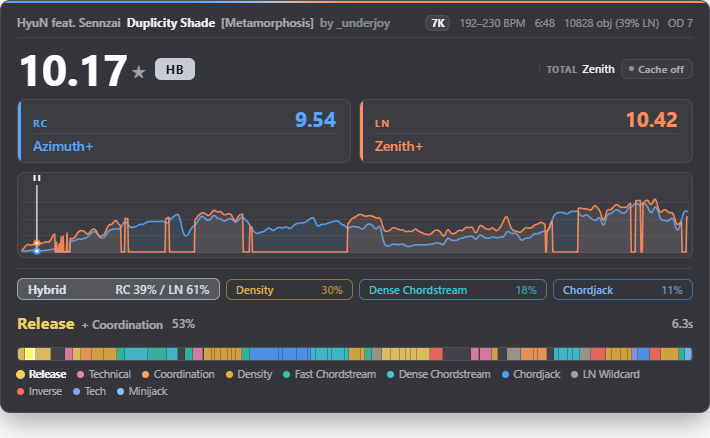
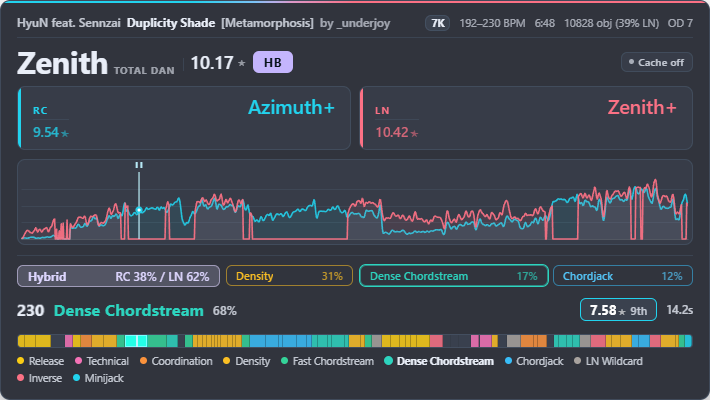
Refine Minimal segment layout and tune display defaults

diff --git a/index.html b/index.html
@@ -967,30 +967,45 @@ body.no-motion #summary-main.mq-run {
 }
 
 /* ---------- Minimal UI Style ---------- */
-#minimal-block { display: none; gap: 6px 12px; align-items: center; }
+#minimal-block { display: none; gap: 6px 12px; align-items: stretch; }
 #container.ui-style-minimal #minimal-block { display: flex; }
-#min-ranks { min-width: 0; flex: 1 1 48%; display: grid; gap: 4px; }
+#min-ranks { min-width: 0; flex: 1 1 36%; display: grid; align-content: center; gap: 4px; }
 #minimal-block #seg-row {
-    flex: 1 1 48%;
+    flex: 2 1 64%;
     min-width: 0;
-    justify-content: flex-end;
-    align-content: center;
-    gap: 3px 6px;
+    flex-wrap: nowrap;
+    align-items: center;
+    gap: 8px;
     margin: 0;
-    padding: 4px 0 4px 10px;
-    border-inline-start: 1px solid var(--rule);
+    padding: 6px 10px;
+    border: 1px solid var(--surface-border);
+    border-radius: 8px;
+    background: var(--surface);
 }
-#minimal-block #seg-row.is-break { padding-inline-end: 9px; }
-#minimal-block #seg-bpm, #minimal-block #seg-tag { font-size: 13px; }
-#minimal-block #seg-conf, #minimal-block #seg-tag .secondary, #minimal-block #seg-dur { display: none; }
-#minimal-block #seg-secondary { flex: 0 0 100%; justify-content: flex-end; }
-#minimal-block #seg-diff { padding: 0; background: none; border: 0; }
-#minimal-block #seg-diff .sd-star { font-size: 13px; }
+#minimal-block #seg-bpm { font-size: clamp(17px, 4.1vw, 22px); }
+#minimal-block #seg-tag {
+    flex: 1 1 auto;
+    font-size: clamp(15px, 3.6vw, 21px);
+    letter-spacing: 0;
+    white-space: normal;
+    overflow-wrap: anywhere;
+    text-wrap: balance;
+}
+#minimal-block #seg-conf, #minimal-block #seg-tag .secondary,
+#minimal-block #seg-dur, #minimal-block #seg-diff .sd-star { display: none; }
+#minimal-block #seg-secondary { margin: 0; }
+#minimal-block #seg-secondary:not(:has(#seg-diff:not(.hidden))) { display: none; }
+#minimal-block #seg-diff { padding: 3px 7px; border: 0; }
+#minimal-block #seg-diff .sd-dan {
+    font-size: clamp(16px, 3.9vw, 22px);
+    font-weight: 700;
+    line-height: 1.1;
+}
+#minimal-block #seg-diff.rc .sd-dan { color: var(--rc); }
+#minimal-block #seg-diff.ln .sd-dan { color: var(--ln); }
 @media (max-width: 340px) {
-    #container.ui-style-minimal #minimal-block { flex-direction: column; align-items: stretch; }
-    #minimal-block #seg-row { flex-basis: auto; padding: 5px 0 0; border-inline-start: 0; border-top: 1px solid var(--rule); }
-    #minimal-block #seg-row.is-break { padding: 4px 9px; }
-    #minimal-block #seg-secondary { flex: none; }
+    #container.ui-style-minimal #minimal-block { flex-direction: column; }
+    #minimal-block #seg-row { flex-basis: auto; padding: 5px 8px; }
 }
 #container.ui-style-minimal #header,
 #container.ui-style-minimal #dan-row,
@@ -1465,9 +1480,9 @@ body.no-motion #summary-main.mq-run {
         algorithm: 'SPM Rating v1.2.0-Detailed',
         subDifficultyScheme: 'Direct (RC/LN sub-model)',
         enableAnalysisCache: true,
-        danDisplayStyle: 'Thirds (low/high)',
-        colorScheme: 'Default Dark',
-        uiStyle: 'Rating first',
+        danDisplayStyle: 'Signs (-/+)',
+        colorScheme: 'Aurora',
+        uiStyle: 'Dan first',
         panelDensity: 'Standard',
         curveSmoothing: 'Medium',
         enableAnimations: true,
@@ -1506,15 +1521,15 @@ body.no-motion #summary-main.mq-run {
         }
     }
 
+    // Display presets only. Default Medium uses the previous Light kernel.
+    const CURVE_SMOOTHING_PX = {
+        Off: 0, Light: 0.35, Medium: 0.75, Strong: 2, Max: 8,
+    };
+
     function smoothPx() {
-        switch (settings.curveSmoothing) {
-            case 'Off': return 0;
-            case 'Light': return SPMEngine.CURVE_SIGMA_PX.light;
-            case 'Medium': return SPMEngine.CURVE_SIGMA_PX.medium;
-            case 'Strong': return SPMEngine.CURVE_SIGMA_PX.strong;
-            case 'Max': return SPMEngine.CURVE_SIGMA_PX.extreme;
-            default: return SPMEngine.CURVE_SIGMA_PX.medium;
-        }
+        const preset = settings.curveSmoothing;
+        return Object.hasOwn(CURVE_SMOOTHING_PX, preset)
+            ? CURVE_SMOOTHING_PX[preset] : CURVE_SMOOTHING_PX.Medium;
     }
 
     let ws = null;
@@ -2343,16 +2358,23 @@ body.no-motion #summary-main.mq-run {
         const danTxt = stat.dan != null
             ? SPMEngine.danLevelToLabel(stat.dan, cachedKeyCount, kind, danStyleKey())
             : '';
+        const minimal = uiStyleKey() === 'minimal';
+        if (minimal && !danTxt) {
+            elSegDiff.classList.add('hidden');
+            elSegDiff.removeAttribute('title');
+            return;
+        }
         const wasHidden = elSegDiff.classList.contains('hidden');
         elSegDiff.className = kind === 'LN' ? 'ln' : 'rc';
-        setRollingDigits(elSegDiffStar, stat.mean.toFixed(2));
+        setRollingDigits(elSegDiffStar, minimal ? '' : stat.mean.toFixed(2));
         setMorphText(elSegDiffDan, danTxt);
         if (settings.enableAnimations && wasHidden) {
             elSegDiff.classList.add('pill-pop');
         }
-        elSegDiff.title = 'Segment difficulty (mean of the section curve: '
-            + stat.mean.toFixed(2) + '\u2605)'
-            + (danTxt ? '\n' + kind + ' dan: ' + danTxt : '');
+        elSegDiff.title = minimal ? kind + ' segment dan: ' + danTxt
+            : 'Segment difficulty (mean of the section curve: '
+                + stat.mean.toFixed(2) + '\u2605)'
+                + (danTxt ? '\n' + kind + ' dan: ' + danTxt : '');
     }
 
     function segKind(idx) {

diff --git a/README.md b/README.md
@@ -35,7 +35,7 @@ While playing, the overlay follows your position and shows the current section's
 
 - A graph of the map's difficulty over time, occupying the lower half of the panel, with a playhead cursor following your position; the playhead turns into a pause marker while the game is paused
 - Maps with both regular and hold sections draw **two lines** — **RC** (cool) and **LN** (warm) — so you can see at a glance which sections are stream-heavy and which are hold-heavy. Both lines are drawn on the same calibrated scale as the headline ratings
-- **Curve smoothing** removes the jaggedness of the raw per-400 ms values. The strength is adjustable from *Off* to *Max* and is measured in pixels of the drawn curve, so one setting looks the same on a 30-second chart and on a 15-minute marathon. Peaks survive: at the default (*Medium*) the curve keeps 86% of its original peak height while shedding about 90% of its roughness (measured over a 332-map 7K corpus). Changing the strength does not re-analyse the map
+- **Curve smoothing** removes the jaggedness of the raw per-400 ms values. The strength is adjustable from *Off* to *Max* and is measured in pixels of the drawn curve, so one setting looks the same on a 30-second chart and on a 15-minute marathon. The default **Medium** uses the previous **Light** curve (0.75 px); choose **Strong** to reproduce the previous **Medium**. Changing the strength does not re-analyse the map
 
 ### Pattern classification
 
@@ -88,7 +88,7 @@ Three layouts under **UI Style**:
 |-------|------------|
 | **Rating first** | The star rating is the headline number; RC/LN ratings and dans share paired cards below |
 | **Dan first** | The dan value is the headline (the metric mania players quote) and the star rating moves next to it |
-| **Minimal** | Summary, dans and overall tags, with live BPM, pattern, stars and dan to the right (or below at narrow widths). No graph or timeline |
+| **Minimal** | Summary, dans and overall tags, with live BPM, pattern and segment dan to the right (or below at narrow widths). No graph or timeline |
 
 **Panel Density** offers **Standard**, **Compact**, and **Low profile**. Low profile puts the sub-ratings beside the headline in wide slots, shortens the graph, and keeps the timeline band without its separate legend.
 
@@ -128,17 +128,17 @@ Tosu stores settings separately for each installation directory. Match **Rating 
 | Rating Algorithm | SPM Rating v1.2.0 model variant: **SPM Rating v1.2.0-Detailed** (full model) or **SPM Rating v1.2.0-Compact** (lighter model). Each has its own measured dan nodes; changing it re-rates the current chart | Detailed |
 | Sub Difficulty Scheme | **Direct**: RC/LN sub-ratings always come from the new sub-models. **Legacy v0.5.1**: LN maps show LN difficulty equal to the total | Direct |
 | Local Analysis Cache | Persist compressed results locally; verify edits, clear incompatible versions; turning off clears cached data | On |
-| UI Style | **Rating first**, **Dan first** or **Minimal** (summary + dans + overall tags + live BPM/pattern/difficulty) | Rating first |
+| UI Style | **Rating first**, **Dan first** or **Minimal** (summary + dans + overall tags + live BPM/pattern/dan) | Dan first |
 | Panel Density | **Standard**, **Compact**, or **Low profile**; auto-fit short viewports | Standard |
-| Color Scheme | **Default Dark**, **Aurora** or **High Contrast** | Default Dark |
-| Dan Display Style | How the dan value is shown: thirds (low/high), signs (-/+) or a decimal number (+0.5 shift: 8.5 = 8dan, 11.5 = Gamma in 7K) | Thirds |
+| Color Scheme | **Default Dark**, **Aurora** or **High Contrast** | Aurora |
+| Dan Display Style | How the dan value is shown: thirds (low/high), signs (-/+) or a decimal number (+0.5 shift: 8.5 = 8dan, 11.5 = Gamma in 7K) | Signs (-/+) |
 | Curve Smoothing | How much the difficulty curve is smoothed: Off, Light, Medium, Strong, Max | Medium |
 | UI Animations | Enable digit rolling, curve morphing, and UI transitions (turn off to reduce GPU/CPU usage) | On |
 | Hide While Playing | Hide the overlay after gameplay starts (shown again on the results screen) | Off |
 | Show Map Summary | Show the song/difficulty/mapper/keys/BPM/objects/length line | On |
 | Show Pattern Tags | Show the overall pattern chips | On |
 | Show Current Segment | Show the live section pattern and equivalent BPM | On |
-| Show Segment Difficulty | Show the live section's star rating and dan (4K/6K/7K) | On |
+| Show Segment Difficulty | Show the live section's dan; full modes also show its star rating (4K/6K/7K) | On |
 | Show Segment Timeline | Show the full-map pattern colour band | On |
 | Show Break Segments | Show "Break" during rest sections | On |
 
@@ -146,7 +146,8 @@ Tosu stores settings separately for each installation directory. Match **Rating 
 
 ### v1.2.5
 
-- Minimal shows live segment BPM, tag, stars and dan beside the map's dans; narrow widths stack the readouts.
+- Minimal groups larger live BPM, tag and segment dan beside the map ranks; narrow widths stack the groups. Stars remain in the full layouts.
+- Display defaults: Dan first, Aurora, Signs (-/+), Medium smoothing (previous Light). Existing saved choices are retained.
 - Low profile keeps the graph and timeline for short OBS slots. Very short sources fit by proportionally scaling the panel after reflow, instead of clipping.
 - Narrow panels no longer force a 380 px minimum. Summary facts, hover coordinates and paused canvas resizing follow the viewport.
 

diff --git a/README_zh.md b/README_zh.md
@@ -35,7 +35,7 @@
 
 - 面板下半部分的难度随时间变化图，带跟随进度的播放游标；游戏暂停时游标变为暂停标记
 - 同时含常规与长键段落的谱面会画**两条线**——**RC**（冷色）与 **LN**（暖色），一眼区分流段和长键段；两条线与顶部评级使用同一套校准尺度
-- **曲线平滑** 消除原始 400ms 数值的锯齿。强度可从 *Off* 调到 *Max*，单位是绘制的像素而不是秒，因此同一个档位在 30 秒短图和 15 分钟马拉松上看起来一致。峰值会保留：默认档（*Medium*）保留 86% 的原始峰值高度，同时去掉约 90% 的粗糙度（在 332 张 7K 谱面语料上实测）。切换档位不需要重新分析谱面
+- **曲线平滑** 消除原始 400ms 数值的锯齿。强度可从 *Off* 调到 *Max*，单位是绘制的像素而不是秒，因此同一个档位在 30 秒短图和 15 分钟马拉松上看起来一致。默认 **Medium** 等同旧版 **Light**（0.75 px）；要恢复旧版 Medium 的效果，选 **Strong**。切换档位不需要重新分析谱面
 
 ### 键型分类
 
@@ -88,7 +88,7 @@
 |------|------|
 | **Rating first** | 星数为头条数字，下方双卡片同时显示 RC／LN 星数和段位 |
 | **Dan first** | 段位为头条数字（mania 玩家最常引用的指标），星数移到旁边 |
-| **Minimal** | 保留摘要、段位与整谱标签；段位右侧显示当前段等效 BPM、键型、星数和段位，窄窗口改为上下排列。不显示曲线或时间轴 |
+| **Minimal** | 保留摘要、段位与整谱标签；段位右侧显示当前段等效 BPM、键型和段位，窄窗口改为上下排列。不显示曲线或时间轴 |
 
 **Panel Density** 提供 **Standard**、**Compact** 和 **Low profile**。Low profile 在较宽的窗口里把子难度移到主数值右侧，并压低曲线；保留时间轴色带，省略单独的图例。
 
@@ -128,17 +128,17 @@ tosu 按安装目录分别存储配置，换目录不会自动沿用旧设置。
 | Rating Algorithm | SPM Rating v1.2.0 的模型选择：**SPM Rating v1.2.0-Detailed**（完整模型）或 **SPM Rating v1.2.0-Compact**（轻量模型）。两者各有独立实测的段位节点，切换后当前谱面会立即重新计算 | Detailed |
 | Sub Difficulty Scheme | **Direct**：RC/LN 子难度始终来自新子模型；**Legacy v0.5.1**：LN 谱面的 LN 难度等于总难度 | Direct |
 | Local Analysis Cache | 本地压缩保存分析结果；核对编辑、清除不兼容版本；关闭时清空缓存 | 开 |
-| UI Style | **Rating first**、**Dan first** 或 **Minimal**（摘要、段位、整谱标签、当前段 BPM／键型／难度） | Rating first |
+| UI Style | **Rating first**、**Dan first** 或 **Minimal**（摘要、段位、整谱标签、当前段 BPM／键型／段位） | Dan first |
 | Panel Density | **Standard**、**Compact** 或 **Low profile**；矮视口自动适配 | Standard |
-| Color Scheme | **Default Dark**、**Aurora** 或 **High Contrast** | Default Dark |
-| Dan Display Style | 段位值的显示风格：三段（low/high）、符号（-/+）或小数数字（+0.5 偏移：8.5 对应 8dan、11.5 对应 Gamma） | Thirds |
+| Color Scheme | **Default Dark**、**Aurora** 或 **High Contrast** | Aurora |
+| Dan Display Style | 段位值的显示风格：三段（low/high）、符号（-/+）或小数数字（+0.5 偏移：8.5 对应 8dan、11.5 对应 Gamma） | Signs (-/+) |
 | Curve Smoothing | 难度曲线的平滑强度：Off、Light、Medium、Strong、Max | Medium |
 | UI Animations | 启用数字翻动、曲线平滑过渡与界面动效（关闭可降低 GPU/CPU 占用） | 开 |
 | Hide While Playing | 开始游玩后隐藏 overlay（结算界面会再次显示） | 关 |
 | Show Map Summary | 显示曲师/曲名/难度名/谱师/键数/BPM/物量/时长摘要行 | 开 |
 | Show Pattern Tags | 显示整体键型标签 | 开 |
 | Show Current Segment | 显示当前段键型与等效 BPM | 开 |
-| Show Segment Difficulty | 显示当前段的星数与段位（4K／6K／7K） | 开 |
+| Show Segment Difficulty | 显示当前段段位，非极简模式还显示星数（4K／6K／7K） | 开 |
 | Show Segment Timeline | 显示全谱键型色带 | 开 |
 | Show Break Segments | 休息段显示 "Break" | 开 |
 
@@ -146,7 +146,8 @@ tosu 按安装目录分别存储配置，换目录不会自动沿用旧设置。
 
 ### v1.2.5
 
-- 极简模式在谱面段位右侧加入当前段 BPM、键型、星数与段位，窄窗口改为上下排列。
+- 极简模式把当前段 BPM、键型和段位放大并排，窄窗口下移到谱面段位下方；星数仅在完整模式显示。
+- 默认改为 Dan first、Aurora、Signs (-/+) 与 Medium 平滑（旧 Light 的效果），已保存的选项不覆盖。
 - 新增 Low profile，矮直播槽保留曲线和时间轴；排版还放不下时等比缩小面板，不再裁掉底部。
 - 取消旧版 380 px 最小宽度，修正窄窗口的摘要、缩放后的曲线悬停定位及暂停时的画布尺寸更新。
 

diff --git a/TESTING.md b/TESTING.md
@@ -4,6 +4,10 @@
   current segment and timeline fit without clipping. A 488 × 380 source uses
   height fitting when needed; a taller source restores the selected density
   and natural size. The explicit Low profile option also works in Dan first.
+- Follow-up: verified larger BPM/tag/dan text, no segment star or star tooltip
+  in Minimal, and restored stars on switching back to a full style. Settings
+  schema and overlay fallback both default to Dan first / Aurora / Signs (-/+) /
+  Medium. The Medium smoothing kernel matches the previous Light value.
 - Minimal places the shared live row beside the dans at 488 px and below at
   300 px. Playhead updates reach the readout. Missing time clears it, Break
   and the two segment visibility settings are respected, and curve/timeline
